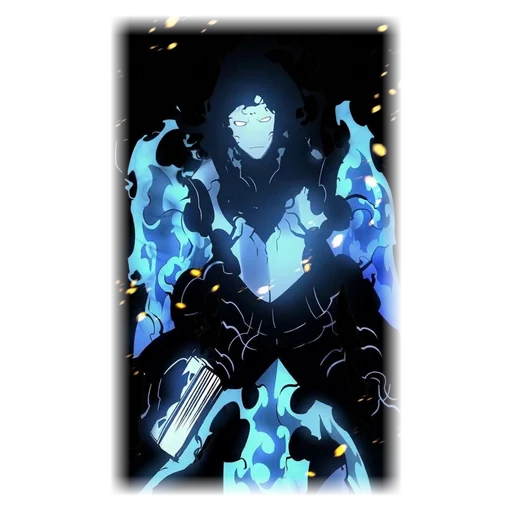
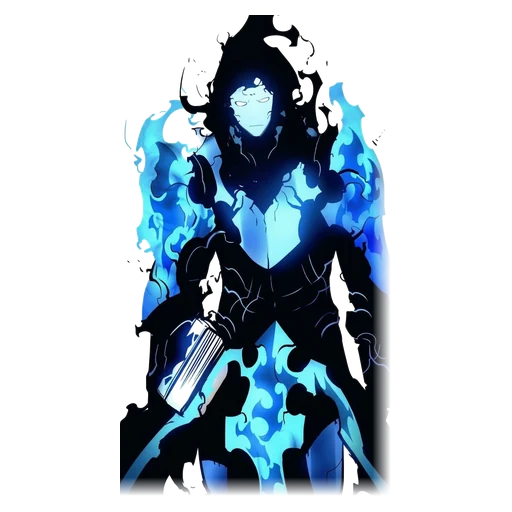
Nueva imagen de Shadow Ming Byung (recorte solido, color azul)

diff --git a/prototipo/js/datos/invocaciones.js b/prototipo/js/datos/invocaciones.js
@@ -29,8 +29,8 @@ export const INVOCACIONES = {
     acciones: [{ tipo: 'golpe', pct: .45, elegir: 'menorHp' }],
   },
   shadowMingByung: {
-    nombre: 'Shadow Ming Byung', rareza: 'Raro', emoji: '🙏', color: 0x34d399, imagen: 'assets/invocaciones/shadow-ming-byung.webp', dur: 3,
-    luminosa: true,     // imagen con fondo negro: se muestra en modo "pantalla" (el negro se vuelve transparente)
+    nombre: 'Shadow Ming Byung', rareza: 'Raro', emoji: '🙏', color: 0x38bdf8, imagen: 'assets/invocaciones/shadow-ming-byung.webp', dur: 3,
+    enfoque: [.49, .2],
     desc: 'Cura 15% del HP máx. al aliado más herido. Al aparecer, limpia 1 debuff de cada aliado.',
     alAparecer: [{ tipo: 'limpiar', cantidad: 1, a: 'todosAliados' }],
     acciones: [{ tipo: 'curar', base: 'hpMaxObjetivo', pct: .15, a: 'aliadoMasHerido' }],
